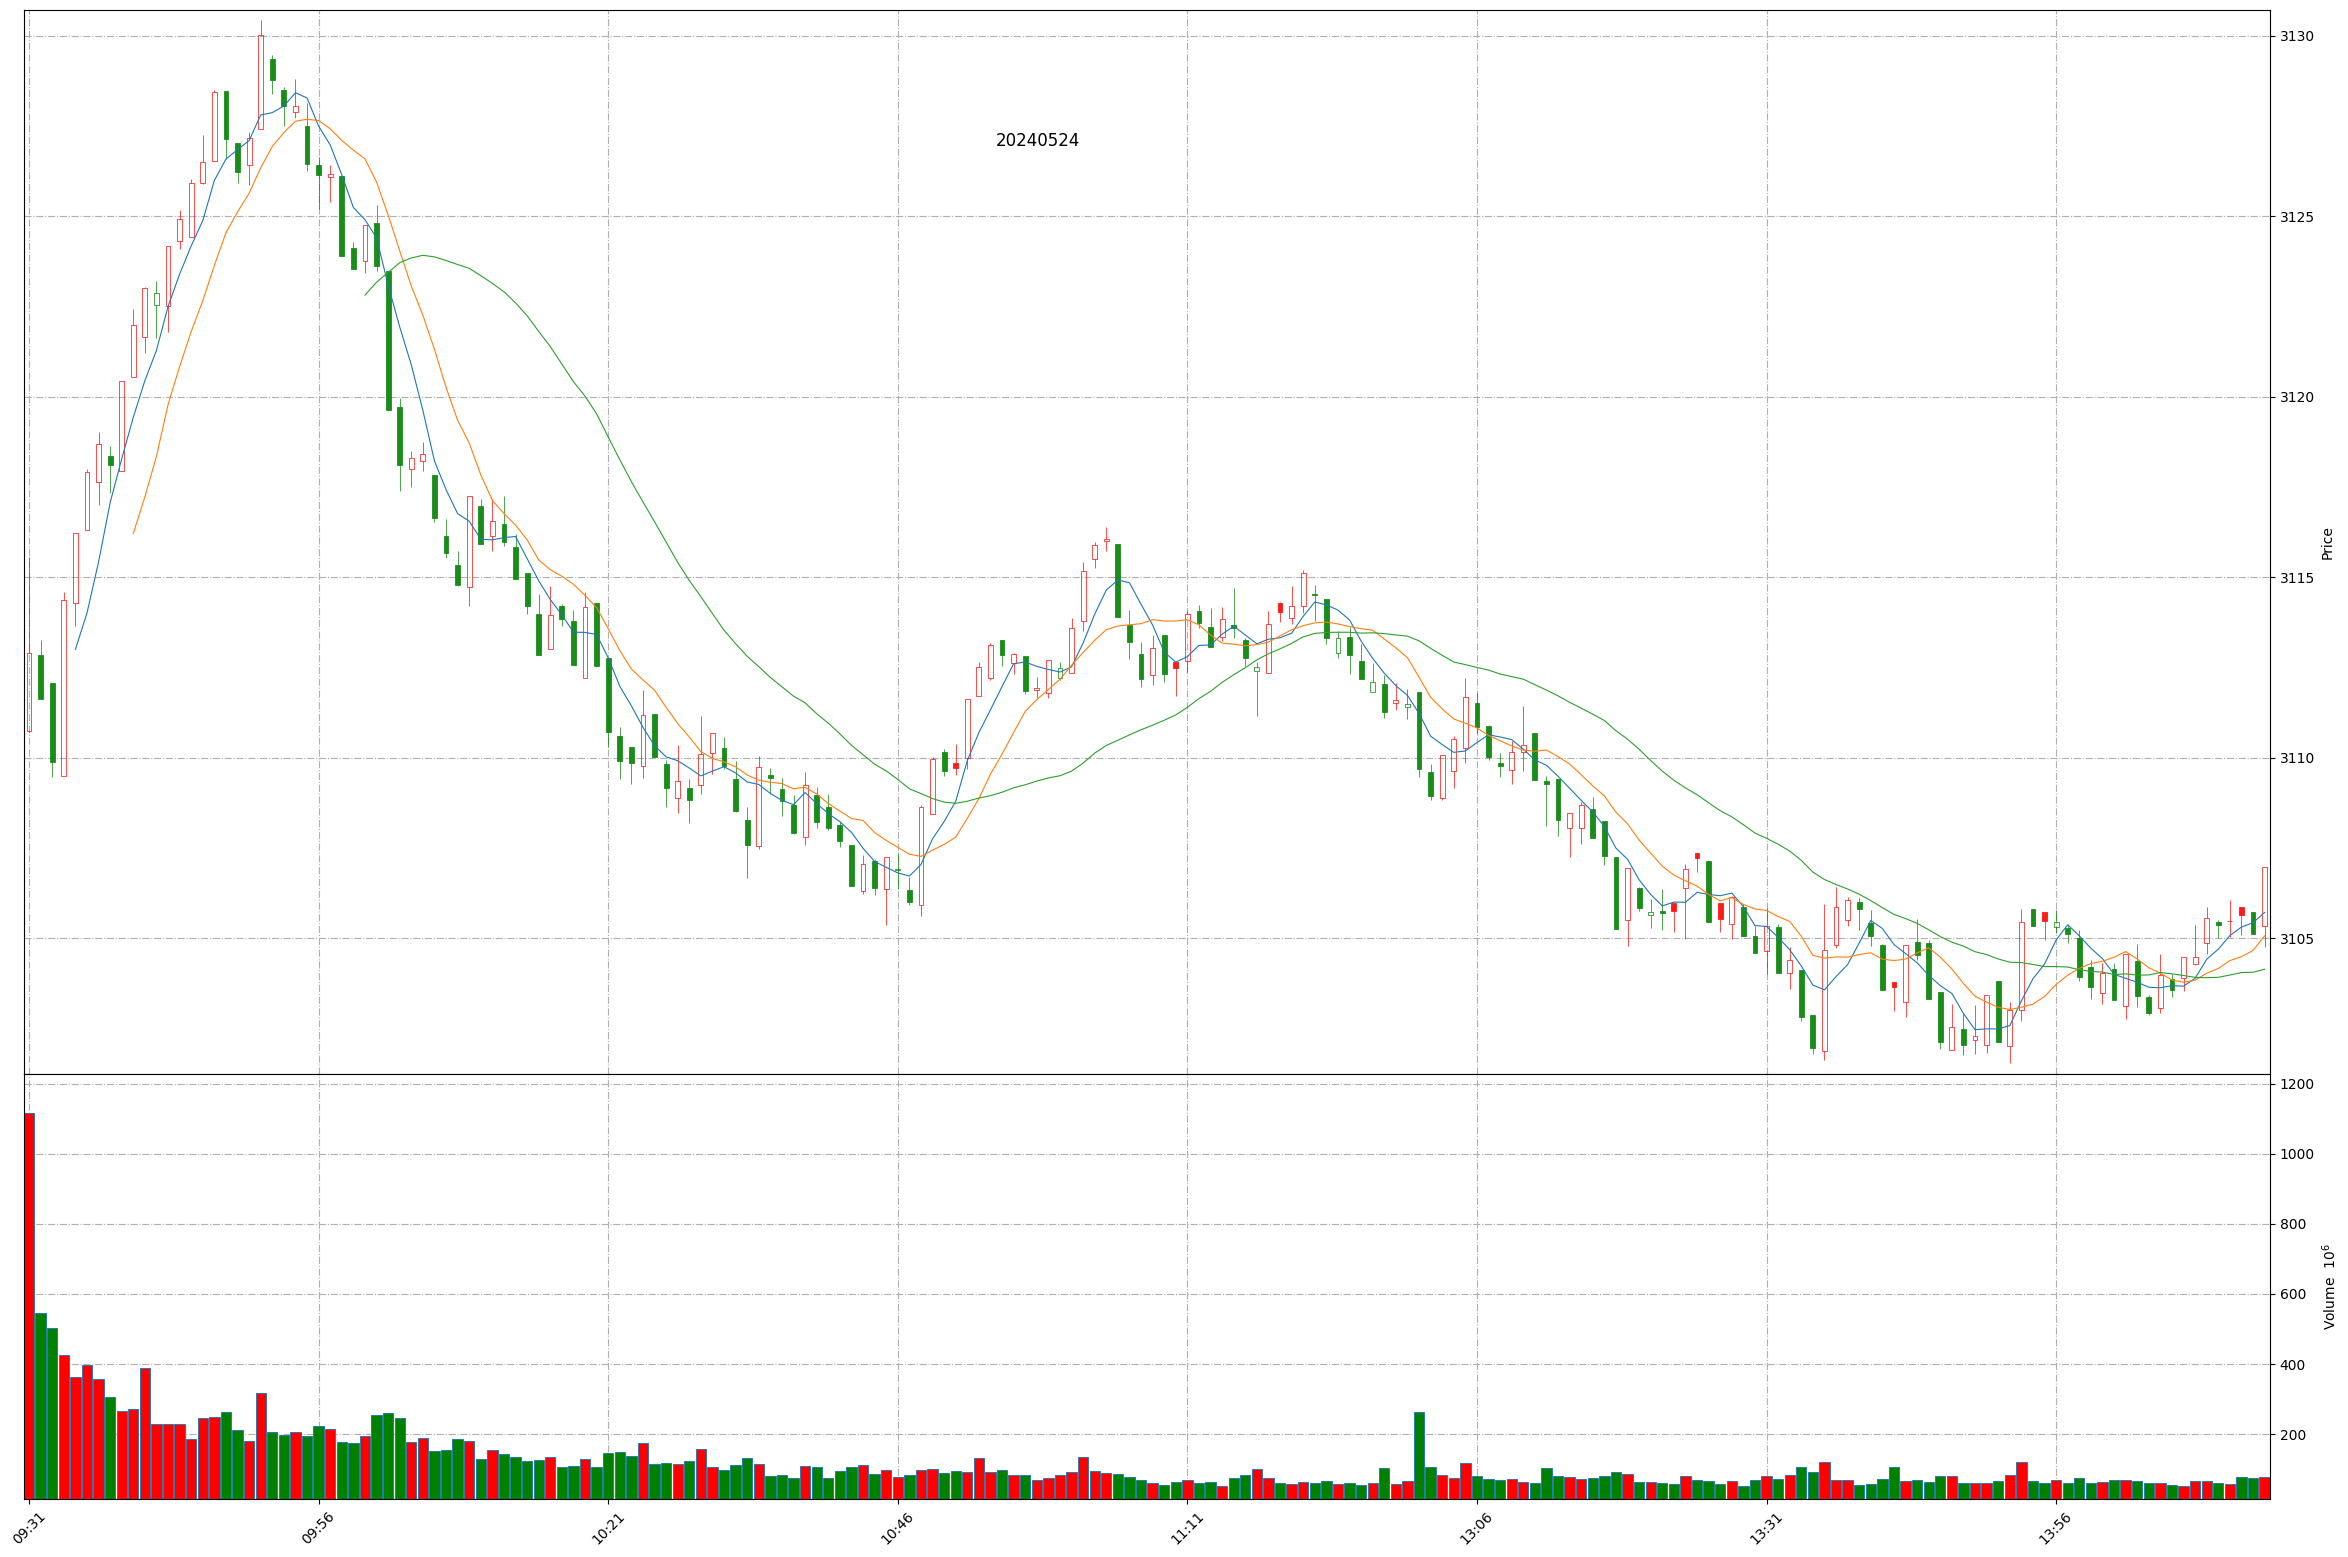
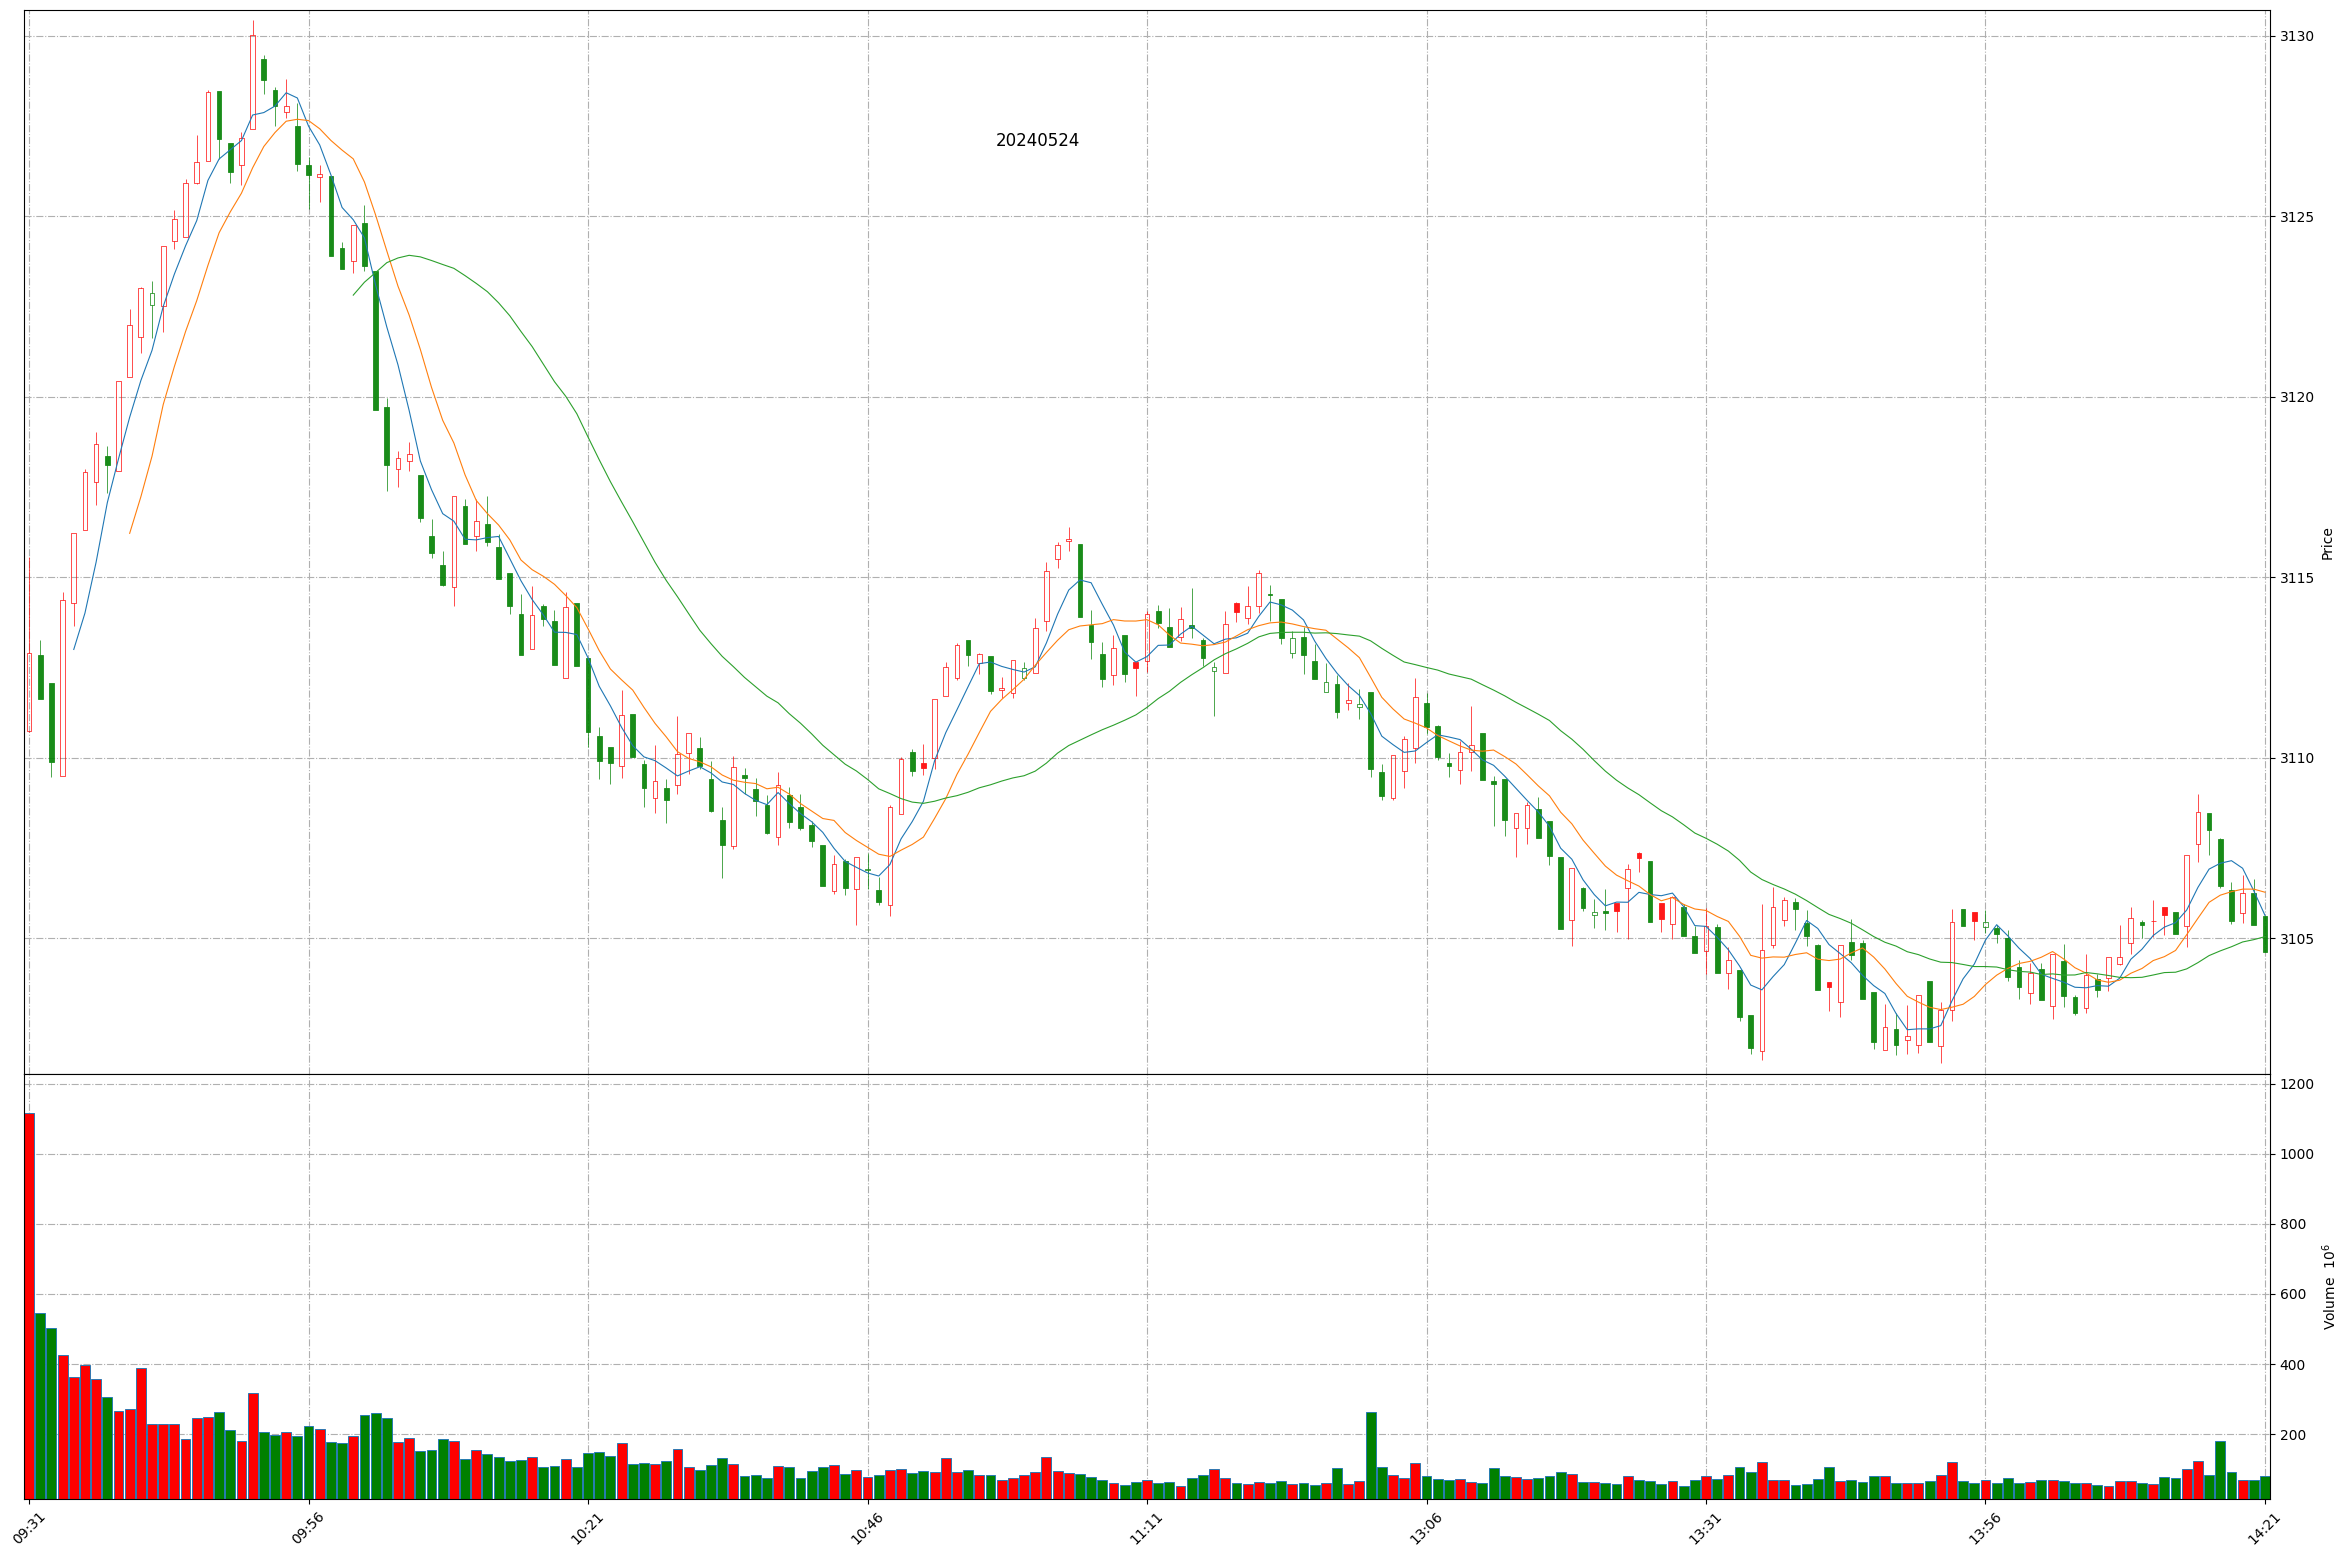
Github action update at 2024-05-24 14:21:15.

Changed region(s): [[0.0622, 0.0308, 0.9638, 0.6782], [0.0, 0.8632, 0.9638, 0.9865], [0.0311, 0.2466, 0.0622, 0.3391]]

diff --git a/README.md b/README.md
@@ -1,11 +1,11 @@
 
 # Daily-A-share-market-quotes 每日 A 股指数（5min 更新）- 20240524
 
-### 上证指数 20240524 14:14
+### 上证指数 20240524 14:21
 ![](./fig/2024/5/20240524-sh000001.png)
 
-### 深证成指 20240524 14:14
+### 深证成指 20240524 14:21
 ![](./fig/2024/5/20240524-sz399001.png)
 
-### 北证50 20240524 14:14
+### 北证50 20240524 14:21
 ![](./fig/2024/5/20240524-bj899050.png)
